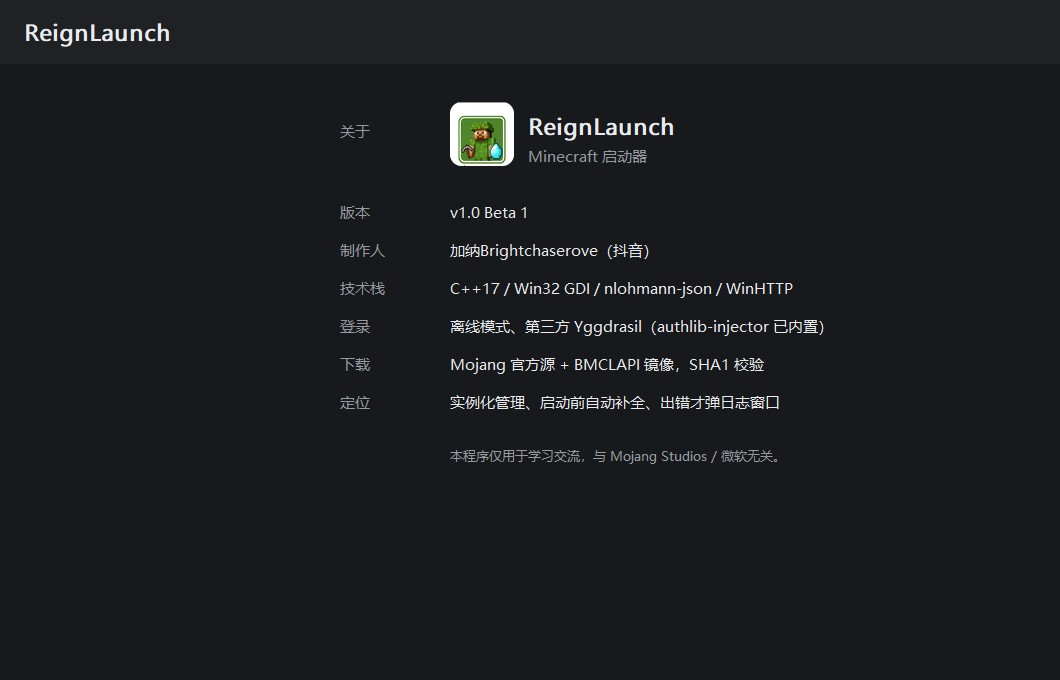
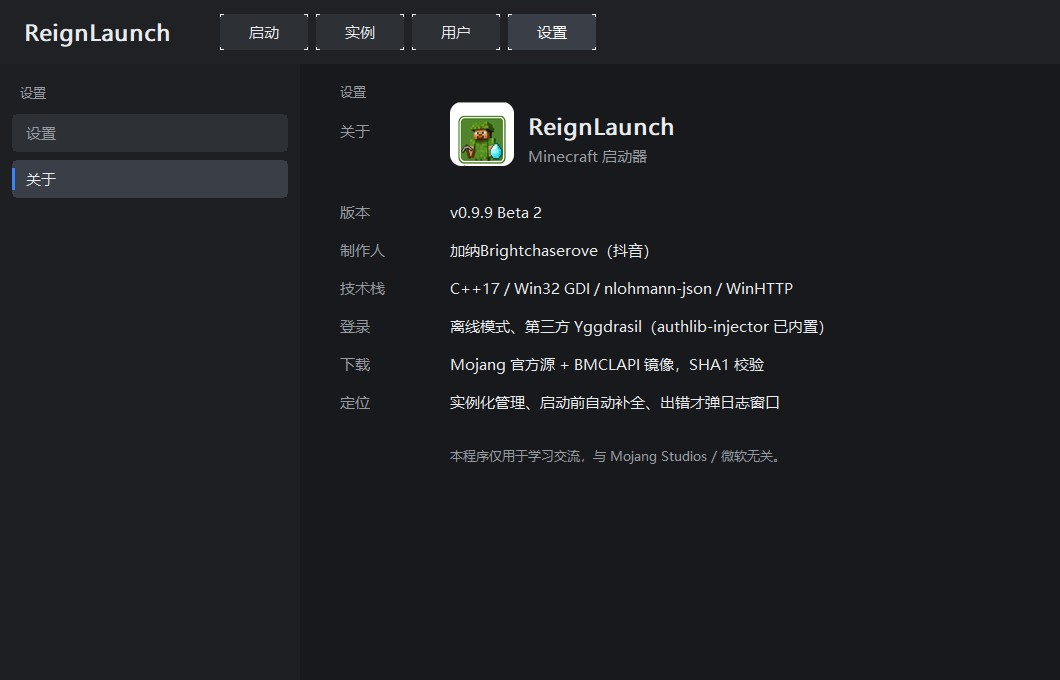
feat: isolation mode with 3 options (all / modded / none); update screenshots

diff --git a/src/ReignLaunch.cpp b/src/ReignLaunch.cpp
@@ -47,7 +47,7 @@ enum Page { PAGE_LAUNCH = 0, PAGE_USER = 1, PAGE_SETTINGS = 2, PAGE_ABOUT = 3, P
 // ============================ 配置 ============================
 struct Config {
     std::string gameDir;
-    bool versionIsolation = true;   // 版本隔离：gameDir 指向 versions/<id>
+    int  isoMode = 0;               // 版本隔离：0=隔离所有实例 1=仅模组实例 2=不隔离
     std::string javaPath;
     int         maxMemMB = 4096;
     std::string playerName = "Steve";
@@ -205,7 +205,7 @@ static std::string LogTail(int n = 400) {
 static void SaveConfig() {
     json j;
     j["gameDir"]       = g_cfg.gameDir;
-    j["versionIsolation"] = g_cfg.versionIsolation;
+    j["isoMode"] = g_cfg.isoMode;
     j["javaPath"]      = g_cfg.javaPath;
     j["maxMemMB"]      = g_cfg.maxMemMB;
     j["playerName"]    = g_cfg.playerName;
@@ -225,7 +225,9 @@ static void LoadConfig() {
     try {
         json j; f >> j;
         g_cfg.gameDir        = j.value("gameDir", std::string());
-    g_cfg.versionIsolation = j.value("versionIsolation", true);
+    g_cfg.isoMode = j.value("isoMode", 0);
+    if (j.contains("versionIsolation"))            // 兼容上一版布尔配置
+        g_cfg.isoMode = j.value("versionIsolation", true) ? 0 : 2;
         g_cfg.javaPath       = j.value("javaPath", std::string());
         g_cfg.maxMemMB       = j.value("maxMemMB", 4096);
         g_cfg.playerName     = j.value("playerName", std::string("Steve"));
@@ -651,14 +653,49 @@ static std::string OfflineUUID(const std::string& name) {
     return hex.substr(0,8) + "-" + hex.substr(8,4) + "-" + hex.substr(12,4) + "-" + hex.substr(16,4) + "-" + hex.substr(20,12);
 }
 
+// 判断实例是否算「模组实例」：有 mods 里的 jar，或版本 id / 主类带加载器名
+static bool IsModdedInstance(const std::string& id, const fs::path& mcDir) {
+    fs::path vd = mcDir / L"versions" / fs::u8path(id);
+    std::error_code ec;
+    fs::path mods = vd / L"mods";
+    if (DirExists(mods)) {
+        for (auto& e : fs::directory_iterator(mods, ec)) {
+            std::wstring n = e.path().filename().wstring();
+            if (n.size() > 4 && n.substr(n.size() - 4) == L".jar") return true;
+        }
+    }
+    std::string low = id;
+    for (auto& c : low) c = (char)tolower((unsigned char)c);
+    if (low.find("forge") != std::string::npos || low.find("fabric") != std::string::npos ||
+        low.find("quilt") != std::string::npos || low.find("neoforge") != std::string::npos)
+        return true;
+
+    std::string vjson = WToU8((vd / L"json").wstring());
+    std::ifstream vf{ fs::u8path(vjson) };
+    if (vf) {
+        std::stringstream ss; ss << vf.rdbuf();
+        std::string body = ss.str();
+        for (auto& c : body) c = (char)tolower((unsigned char)c);
+        if (body.find("net.minecraftforge") != std::string::npos ||
+            body.find("net.fabricmc") != std::string::npos ||
+            body.find("net.neoforged") != std::string::npos) return true;
+    }
+    return false;
+}
+
+static bool ShouldIsolate(const std::string& id, const fs::path& mcDir) {
+    if (g_cfg.isoMode == 2) return false;
+    if (!DirExists(mcDir / L"versions" / fs::u8path(id))) return false;
+    if (g_cfg.isoMode == 1) return IsModdedInstance(id, mcDir);
+    return true;
+}
 static bool BuildLaunchPlan(const std::string& versionId, LaunchPlan& plan, std::string& error) {
     fs::path mcDir = fs::u8path(g_cfg.gameDir);
 
     // 版本隔离：把 gameDir 指向 versions/<id>，让 Forge 用该版本自己的 mods
     std::string gameDirEff = g_cfg.gameDir;
-    if (g_cfg.versionIsolation) {
-        fs::path isoDir = mcDir / L"versions" / fs::u8path(versionId);
-        if (DirExists(isoDir)) gameDirEff = WToU8(isoDir.wstring());
+    if (ShouldIsolate(versionId, mcDir)) {
+        gameDirEff = WToU8((mcDir / L"versions" / fs::u8path(versionId)).wstring());
     }
     json vj = ResolveVersion(versionId);
     if (!vj.is_object()) { error = "版本 JSON 读取或解析失败"; return false; }
@@ -835,9 +872,8 @@ static void DownloadMissing(const std::string& versionId, DownloadStats& st) {
 
     // 版本隔离：把 gameDir 指向 versions/<id>，让 Forge 用该版本自己的 mods
     std::string gameDirEff = g_cfg.gameDir;
-    if (g_cfg.versionIsolation) {
-        fs::path isoDir = mcDir / L"versions" / fs::u8path(versionId);
-        if (DirExists(isoDir)) gameDirEff = WToU8(isoDir.wstring());
+    if (ShouldIsolate(versionId, mcDir)) {
+        gameDirEff = WToU8((mcDir / L"versions" / fs::u8path(versionId)).wstring());
     }
     fs::path libRoot = mcDir / L"libraries";
     json vj = ResolveVersion(versionId);
@@ -931,9 +967,8 @@ static int CountMissing(const std::string& versionId) {
 
     // 版本隔离：把 gameDir 指向 versions/<id>，让 Forge 用该版本自己的 mods
     std::string gameDirEff = g_cfg.gameDir;
-    if (g_cfg.versionIsolation) {
-        fs::path isoDir = mcDir / L"versions" / fs::u8path(versionId);
-        if (DirExists(isoDir)) gameDirEff = WToU8(isoDir.wstring());
+    if (ShouldIsolate(versionId, mcDir)) {
+        gameDirEff = WToU8((mcDir / L"versions" / fs::u8path(versionId)).wstring());
     }
     fs::path libRoot = mcDir / L"libraries";
     json vj = ResolveVersion(versionId);
@@ -1267,6 +1302,13 @@ static RECT SmallBtnRect(int idx) {   // 0=补全文件 1=刷新
 
 static void SettingsGeom(int row, RECT& ed, RECT& drop, RECT& autoB, RECT& browse);
 
+static const wchar_t* IsoLabel() {
+    switch (g_cfg.isoMode) {
+    case 0: return L"隔离所有实例";
+    case 1: return L"隔离模组实例";
+    default: return L"不隔离实例";
+    }
+}
 static void LayoutControls() {
     int w = g_ly.content.right, h = g_ly.content.bottom;
 
@@ -1330,7 +1372,7 @@ static void LayoutControls() {
         MoveWindow(hEdMem,  x + Scale(110), y + rowH * 2, Scale(110), edH, TRUE);
 
         MoveWindow(hBtnSave, x + Scale(110), y + rowH * 3 + Scale(10), Scale(140), Scale(40), TRUE);
-        MoveWindow(hBtnIso,  x + Scale(270), y + rowH * 3 + Scale(10), Scale(170), Scale(40), TRUE);
+        MoveWindow(hBtnIso,  x + Scale(270), y + rowH * 3 + Scale(10), Scale(240), Scale(40), TRUE);
     }
 }
 
@@ -1853,10 +1895,8 @@ static LRESULT CALLBACK DropProc(HWND hwnd, UINT msg, WPARAM wp, LPARAM lp) {
                 FillRect(dc, &it, hb);
                 DeleteObject(hb);
             }
-            std::wstring txt = (g_dropMode == 0)
-                ? U8ToW(g_dropItems[i].path)
-                : ((g_dropMode == 1) ? (U8ToW(g_dropItems[i].label) + L"    " + U8ToW(g_dropItems[i].path))
-                                     : U8ToW(g_dropItems[i].path));
+            std::wstring txt = U8ToW(g_dropItems[i].path);
+            if (g_dropMode == 1) txt = U8ToW(g_dropItems[i].label) + L"    " + U8ToW(g_dropItems[i].path);
             RECT tt = it; tt.left += Scale(8); tt.right -= Scale(4);
             DrawTextIn(dc, txt, tt, C_TEXT, g_fSmall);
             y += itemH;
@@ -1899,16 +1939,22 @@ static void ShowDropPopup(int mode) {
     g_dropItems.clear();
     if (mode == 0)      g_dropItems = g_dirCands;
     else if (mode == 1) g_dropItems = g_javaCands;
-    else for (auto& v : g_versions) g_dropItems.push_back({ v, v });
+    else if (mode == 2) { for (auto& v : g_versions) g_dropItems.push_back({ v, v }); }
+    else {
+        g_dropItems.push_back({ "隔离所有实例", "隔离所有实例" });
+        g_dropItems.push_back({ "隔离模组实例", "隔离模组实例" });
+        g_dropItems.push_back({ "不隔离实例",   "不隔离实例" });
+    }
     if (g_dropItems.empty()) return;
 
     RECT er{};
     if (mode == 0)      GetWindowRect(hEdDir, &er);
     else if (mode == 1) GetWindowRect(hEdJava, &er);
-    else                GetWindowRect(hBtnInstArrow, &er);
+    else if (mode == 2) GetWindowRect(hBtnInstArrow, &er);
+    else                GetWindowRect(hBtnIso, &er);
 
     int itemH = Scale(28);
-    int w = Scale(mode == 2 ? 300 : 420);
+    int w = Scale(mode == 2 ? 300 : (mode == 3 ? 300 : 420));
     int h = itemH * (int)g_dropItems.size() + Scale(8);
 
     static bool reg = false;
@@ -1971,7 +2017,7 @@ static LRESULT CALLBACK MainProc(HWND hwnd, UINT msg, WPARAM wp, LPARAM lp) {
         hBtnBrowseJava = MakeBtn(hwnd, L"浏览", ID_BTN_BROWSEJAVA);
         hBtnJavaDrop   = MakeBtn(hwnd, L"▾", ID_BTN_JAVADROP);
         hBtnSave       = MakeBtn(hwnd, L"保存设置", ID_BTN_SAVE);
-        hBtnIso        = MakeBtn(hwnd, g_cfg.versionIsolation ? L"版本隔离：开" : L"版本隔离：关", ID_BTN_ISO);
+        hBtnIso        = MakeBtn(hwnd, (std::wstring(L"版本隔离：") + IsoLabel() + L"  ▾").c_str(), ID_BTN_ISO);
 
         SetTimer(hwnd, 1, 300, nullptr);
         return 0;
@@ -2269,16 +2315,9 @@ static LRESULT CALLBACK MainProc(HWND hwnd, UINT msg, WPARAM wp, LPARAM lp) {
             }
             break;
         }
-        case ID_BTN_ISO: {
-        g_cfg.versionIsolation = !g_cfg.versionIsolation;
-        SetWindowTextW(hBtnIso, g_cfg.versionIsolation ? L"版本隔离：开" : L"版本隔离：关");
-        SaveConfig();
-        g_status = g_cfg.versionIsolation
-            ? L"版本隔离已开启（模组读 versions\\<版本>\\mods）"
-            : L"版本隔离已关闭（模组读 .minecraft\\mods）";
-        InvalidateRect(hwnd, nullptr, TRUE);
+        case ID_BTN_ISO:
+        ShowDropPopup(3);
         break;
-    }
 
     case ID_BTN_SAVE: {
             g_cfg.gameDir = WToU8(CtlText(hEdDir));
@@ -2310,6 +2349,22 @@ static LRESULT CALLBACK MainProc(HWND hwnd, UINT msg, WPARAM wp, LPARAM lp) {
     case WM_DROP_PICK: {
         int idx = (int)wp;
         int mode = (int)lp;
+        if (mode == 3) {
+            if (idx >= 0 && idx < 3) {
+                g_cfg.isoMode = idx;
+                SetWindowTextW(hBtnIso, (std::wstring(L"版本隔离：") + IsoLabel() + L"  ▾").c_str());
+                SaveConfig();
+                const wchar_t* tips[] = {
+                    L"已设为：隔离所有实例",
+                    L"已设为：隔离模组实例（带 mods 或 Forge/Fabric 的实例才隔离）",
+                    L"已设为：不隔离实例（模组读 .minecraft\mods）"
+                };
+                g_status = tips[idx];
+            }
+            InvalidateRect(hwnd, nullptr, TRUE);
+            return 0;
+        }
+
         if (mode == 2) {
             if (idx >= 0 && idx < (int)g_versions.size()) {
                 g_selVersion = idx;
